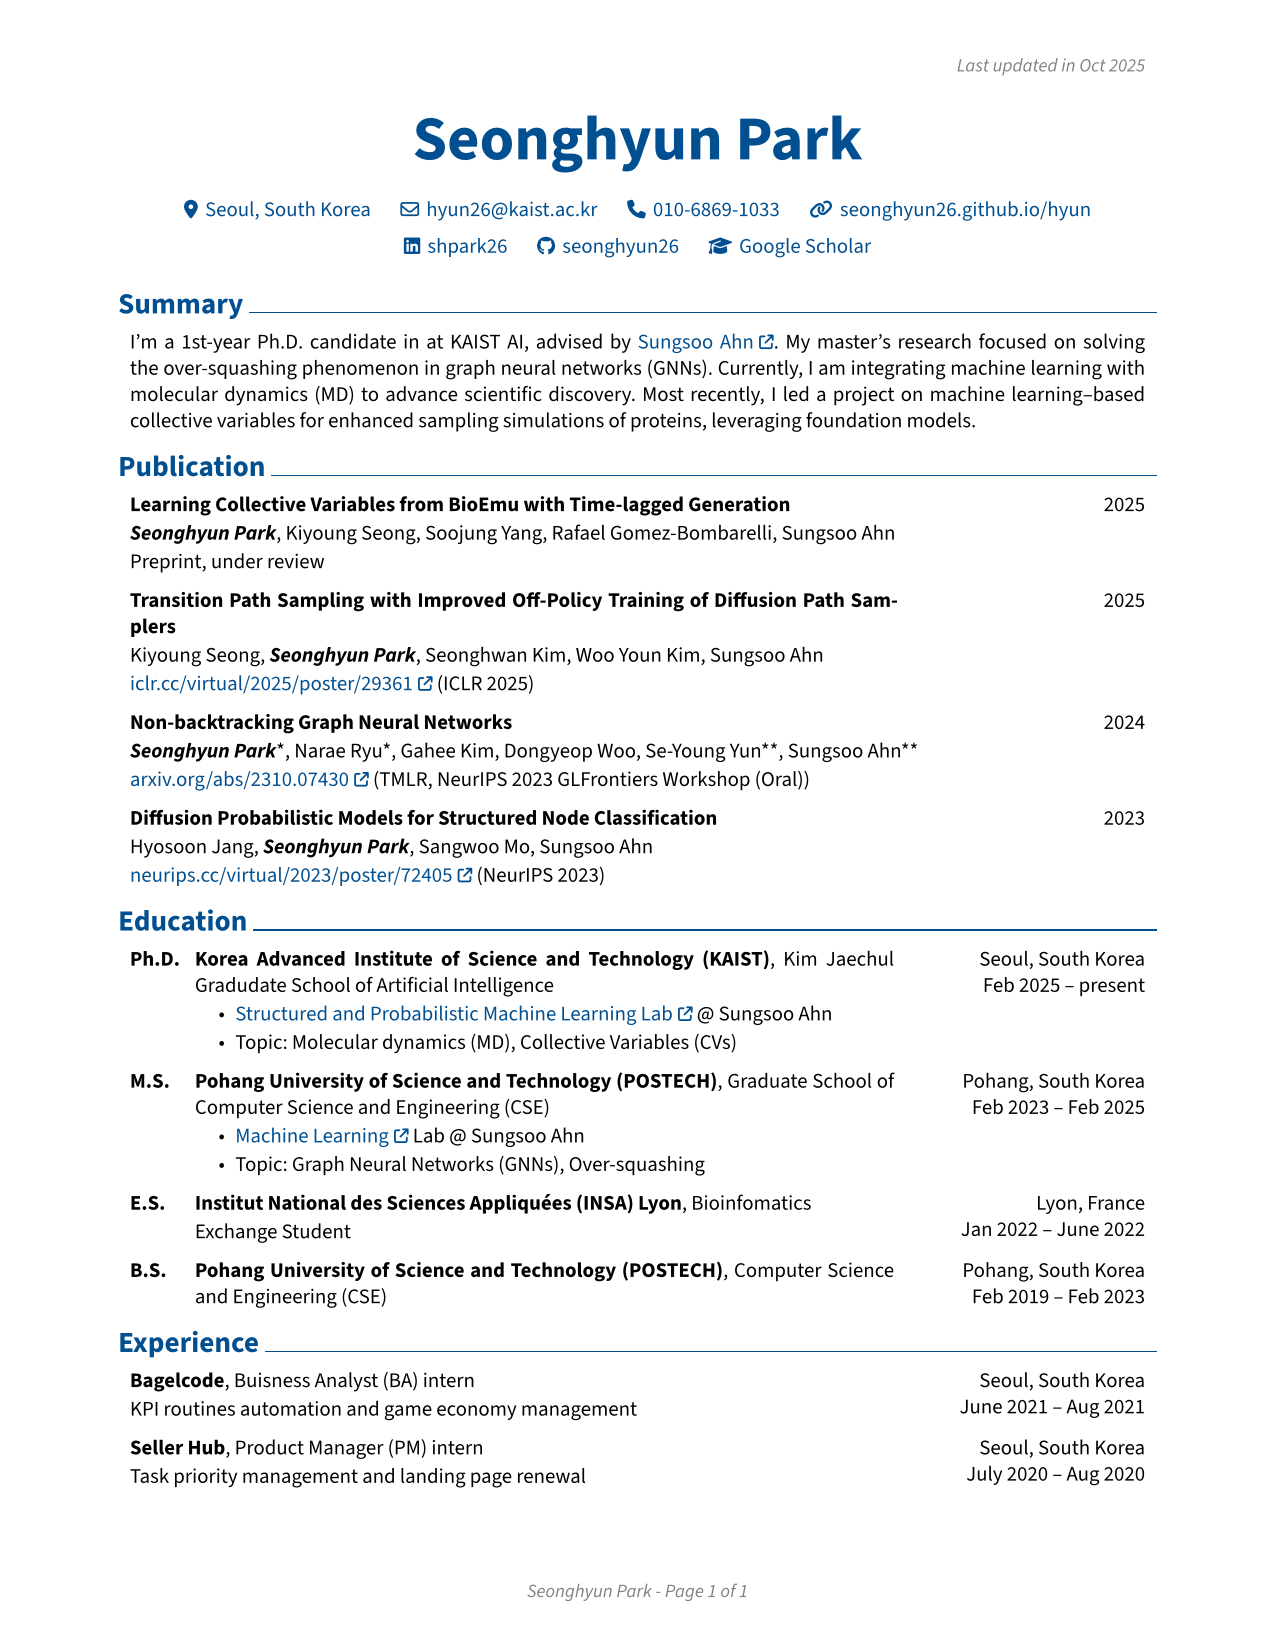
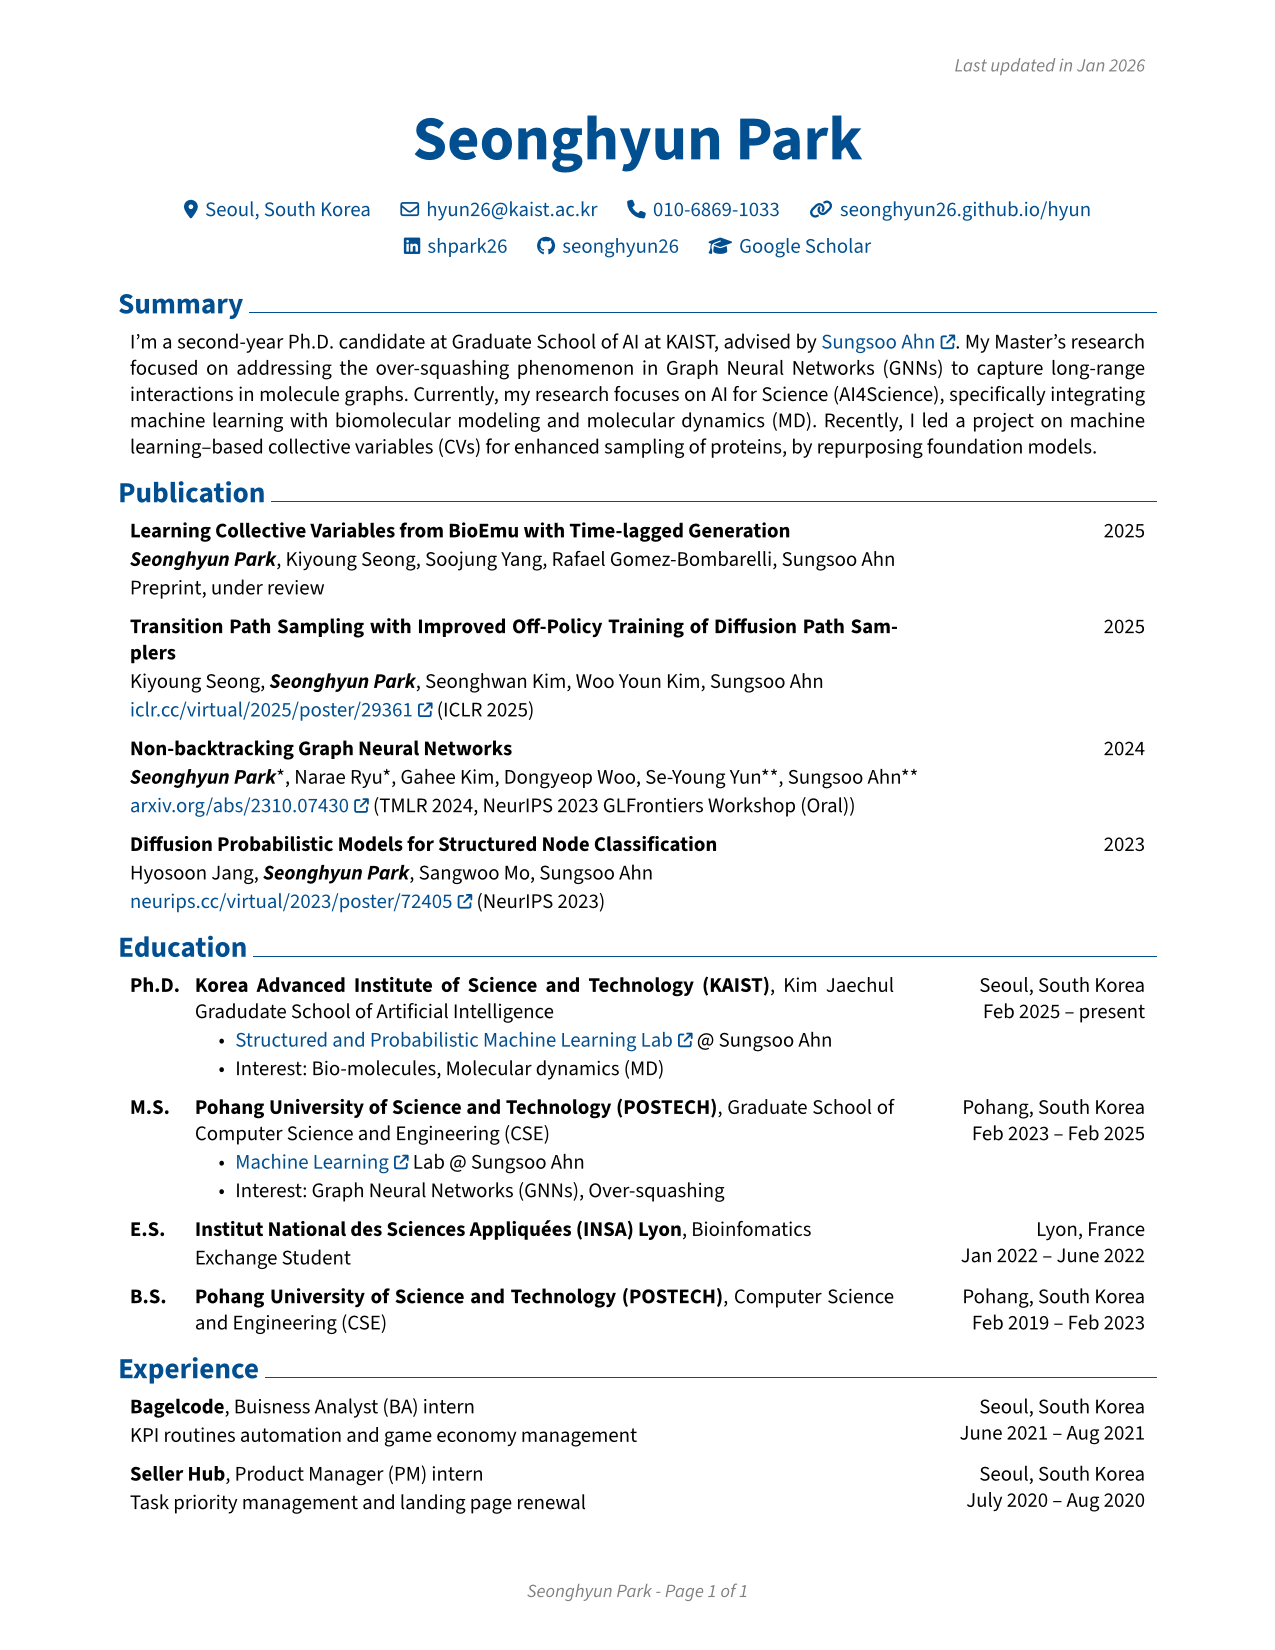
upd - resume

diff --git a/resume/output/Seonghyun_Park_CV.html b/resume/output/Seonghyun_Park_CV.html
@@ -50,7 +50,7 @@
         <li>Google Scholar: <a href="https://scholar.google.com/citations?user=w4q4N9sAAAAJ">w4q4N9sAAAAJ</a></li>
         </ul>
         <h1>Summary</h1>
-        <p>I'm a 1st-year Ph.D. candidate in at KAIST AI, advised by <a href="https://sites.google.com/view/sungsooahn0215">Sungsoo Ahn</a>. My master’s research focused on solving the over-squashing phenomenon in graph neural networks (GNNs). Currently, I am integrating machine learning with molecular dynamics (MD) to advance scientific discovery. Most recently, I led a project on machine learning–based collective variables for enhanced sampling simulations of proteins, leveraging foundation models.</p>
+        <p>I'm a second-year Ph.D. candidate at Graduate School of AI at KAIST, advised by <a href="https://sites.google.com/view/sungsooahn0215">Sungsoo Ahn</a>. My Master’s research focused on addressing the over-squashing phenomenon in Graph Neural Networks (GNNs) to capture long-range interactions in molecule graphs. Currently, my research focuses on AI for Science (AI4Science), specifically integrating machine learning with biomolecular modeling and molecular dynamics (MD). Recently, I led a project on machine learning–based collective variables (CVs) for enhanced sampling of proteins, by repurposing foundation models.</p>
         <h1>Publication</h1>
         <h2>Learning Collective Variables from BioEmu with Time-lagged Generation</h2>
         <ul>
@@ -68,7 +68,7 @@
         <ul>
         <li>2024</li>
         <li><strong><em>Seonghyun Park</em></strong><em>, Narae Ryu</em>, Gahee Kim, Dongyeop Woo, Se-Young Yun<strong>, Sungsoo Ahn</strong></li>
-        <li>TMLR, NeurIPS 2023 GLFrontiers Workshop (Oral)</li>
+        <li>TMLR 2024, NeurIPS 2023 GLFrontiers Workshop (Oral)</li>
         </ul>
         <h2>Diffusion Probabilistic Models for Structured Node Classification (<a href="neurips.cc/virtual/2023/poster/72405">https://neurips.cc/virtual/2023/poster/72405</a>)</h2>
         <ul>
@@ -82,14 +82,14 @@
         <li>Feb 2025 – present</li>
         <li>Seoul, South Korea</li>
         <li><a href="https://sites.google.com/view/sungsooahn0215">Structured and Probabilistic Machine Learning Lab</a> @ Sungsoo Ahn</li>
-        <li>Topic: Molecular dynamics (MD), Collective Variables (CVs)</li>
+        <li>Interest: Bio-molecules, Molecular dynamics (MD)</li>
         </ul>
         <h2>Pohang University of Science and Technology (POSTECH), M.S. in Graduate School of Computer Science and Engineering (CSE)</h2>
         <ul>
         <li>Feb 2023 – Feb 2025</li>
         <li>Pohang, South Korea</li>
         <li><a href="https://ml.postech.ac.kr/">Machine Learning</a> Lab @ Sungsoo Ahn </li>
-        <li>Topic: Graph Neural Networks (GNNs), Over-squashing</li>
+        <li>Interest: Graph Neural Networks (GNNs), Over-squashing</li>
         </ul>
         <h2>Institut National des Sciences Appliquées (INSA) Lyon, E.S. in Bioinfomatics</h2>
         <ul>

diff --git a/resume/output/Seonghyun_Park_CV.md b/resume/output/Seonghyun_Park_CV.md
@@ -11,7 +11,7 @@
 
 # Summary
 
-I'm a 1st-year Ph.D. candidate in at KAIST AI, advised by [Sungsoo Ahn](https://sites.google.com/view/sungsooahn0215). My master’s research focused on solving the over-squashing phenomenon in graph neural networks (GNNs). Currently, I am integrating machine learning with molecular dynamics (MD) to advance scientific discovery. Most recently, I led a project on machine learning–based collective variables for enhanced sampling simulations of proteins, leveraging foundation models.
+I'm a second-year Ph.D. candidate at Graduate School of AI at KAIST, advised by [Sungsoo Ahn](https://sites.google.com/view/sungsooahn0215). My Master’s research focused on addressing the over-squashing phenomenon in Graph Neural Networks (GNNs) to capture long-range interactions in molecule graphs. Currently, my research focuses on AI for Science (AI4Science), specifically integrating machine learning with biomolecular modeling and molecular dynamics (MD). Recently, I led a project on machine learning–based collective variables (CVs) for enhanced sampling of proteins, by repurposing foundation models.
 
 # Publication
 
@@ -28,7 +28,7 @@ I'm a 1st-year Ph.D. candidate in at KAIST AI, advised by [Sungsoo Ahn](https://
 ## Non-backtracking Graph Neural Networks ([https://arxiv.org/abs/2310.07430](arxiv.org/abs/2310.07430))
 - 2024
 - ***Seonghyun Park****, Narae Ryu*, Gahee Kim, Dongyeop Woo, Se-Young Yun**, Sungsoo Ahn**
-- TMLR, NeurIPS 2023 GLFrontiers Workshop (Oral)
+- TMLR 2024, NeurIPS 2023 GLFrontiers Workshop (Oral)
 
 ## Diffusion Probabilistic Models for Structured Node Classification ([https://neurips.cc/virtual/2023/poster/72405](neurips.cc/virtual/2023/poster/72405))
 - 2023
@@ -42,14 +42,14 @@ I'm a 1st-year Ph.D. candidate in at KAIST AI, advised by [Sungsoo Ahn](https://
 - Feb 2025 – present
 - Seoul, South Korea
 - [Structured and Probabilistic Machine Learning Lab](https://sites.google.com/view/sungsooahn0215) @ Sungsoo Ahn
-- Topic: Molecular dynamics (MD), Collective Variables (CVs)
+- Interest: Bio-molecules, Molecular dynamics (MD)
 
 ## Pohang University of Science and Technology (POSTECH), M.S. in Graduate School of Computer Science and Engineering (CSE)
 
 - Feb 2023 – Feb 2025
 - Pohang, South Korea
 - [Machine Learning](https://ml.postech.ac.kr/) Lab @ Sungsoo Ahn 
-- Topic: Graph Neural Networks (GNNs), Over-squashing
+- Interest: Graph Neural Networks (GNNs), Over-squashing
 
 ## Institut National des Sciences Appliquées (INSA) Lyon, E.S. in Bioinfomatics
 
